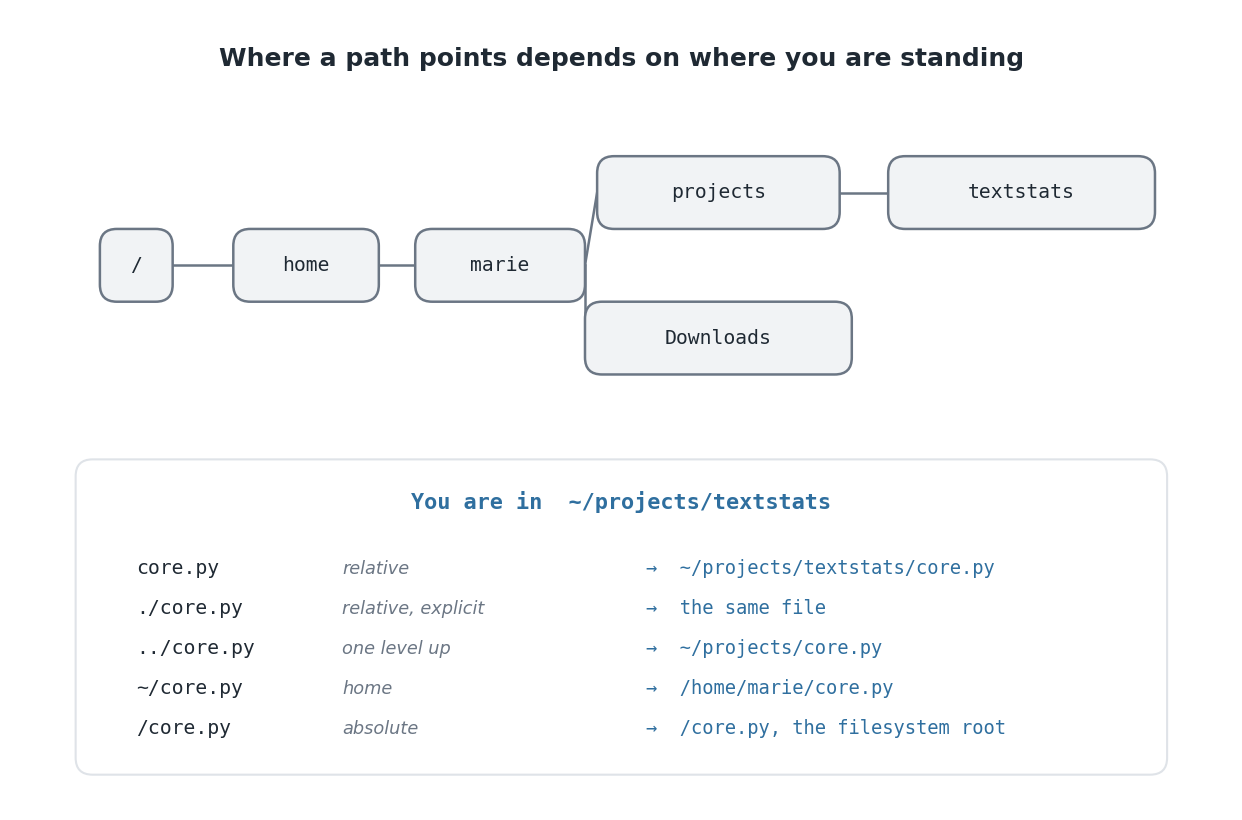
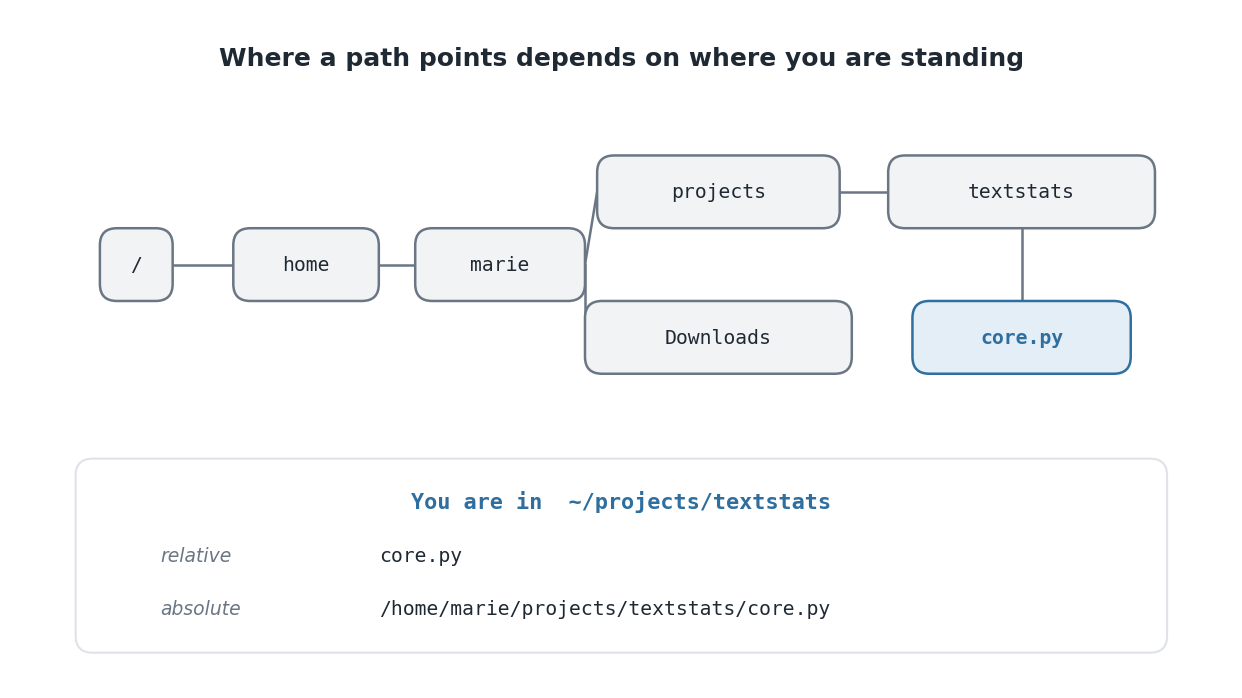
Put core.py in the paths tree, and cut the path table to two rows
The tree was right but abstract: it drew directories and then talked about a
file that was not in it. core.py now sits under textstats, in accent blue so it
reads as a file rather than one more directory, joined by the one vertical edge
in the figure.

The table under it listed five ways to write a path — ./ and ../ and ~/ and the
filesystem root — which is a reference table, not a slide. It is cut to the two
that carry the idea: the relative path you type when you are standing next to
the file, and the absolute path that works from anywhere. The rest is in the
lesson body, where a reader can go at their own pace.

Also carries two trims made on the website and pulled back first (the publish
guard refused until they were): the torch/Colab aside in accounts-and-tools, and
half a sentence in the-shell.

Claude-Session: https://claude.ai/code/session_01Sj8aQTM6V9whNfQfvzhm8J

diff --git a/courseware/tools/figures/s1_git_and_packaging.py b/courseware/tools/figures/s1_git_and_packaging.py
@@ -317,33 +317,44 @@ def the_shell() -> None:
         "projects": (58, 50),
         "Downloads": (58, 38),
         "textstats": (83, 50),
+        # The file the two paths below name. Drawn under textstats rather than
+        # to its right, where there is no room left on a 0..100 canvas.
+        "core.py": (83, 38),
     }
     for name, (x, y) in nodes.items():
         w = 4.0 + 2.0 * len(name)
-        box(ax, x - w / 2, y - 3.0, w, 6.0, fc=GREY_BG, ec=MUTED, lw=1.2)
-        label(ax, x, y, name, fs=9.5, mono=True)
+        is_file = name == "core.py"
+        box(ax, x - w / 2, y - 3.0, w, 6.0,
+            fc=ACCENT_BG if is_file else GREY_BG,
+            ec=ACCENT if is_file else MUTED, lw=1.2)
+        label(ax, x, y, name, fs=9.5, mono=True,
+              color=ACCENT if is_file else INK,
+              weight="bold" if is_file else "normal")
     edges = [("/", "home"), ("home", "marie"), ("marie", "projects"),
              ("marie", "Downloads"), ("projects", "textstats")]
     for a, b in edges:
         ax.plot([nodes[a][0] + 2 + len(a), nodes[b][0] - 2 - len(b)],
                 [nodes[a][1], nodes[b][1]], color=MUTED, lw=1.2, zorder=1)
+    # textstats -> core.py is the one vertical edge; the formula above assumes
+    # the child sits to the right of its parent and would draw it backwards.
+    ax.plot([nodes["textstats"][0]] * 2,
+            [nodes["textstats"][1] - 3.0, nodes["core.py"][1] + 3.0],
+            color=MUTED, lw=1.2, zorder=1)
 
-    box(ax, 5, 2, 90, 26, fc=PAPER, ec=RULE, lw=1.0)
+    box(ax, 5, 12, 90, 16, fc=PAPER, ec=RULE, lw=1.0)
     label(ax, 50, 24.5, "You are in  ~/projects/textstats", fs=10.5,
           weight="bold", mono=True, color=ACCENT)
+    # Two ways to name the same file, and the only two worth the slide: what you
+    # type when you are standing next to it, and what always works.
     rows = [
-        ("core.py", "relative", "→  ~/projects/textstats/core.py"),
-        ("./core.py", "relative, explicit", "→  the same file"),
-        ("../core.py", "one level up", "→  ~/projects/core.py"),
-        ("~/core.py", "home", "→  /home/marie/core.py"),
-        ("/core.py", "absolute", "→  /core.py, the filesystem root"),
+        ("relative", "core.py"),
+        ("absolute", "/home/marie/projects/textstats/core.py"),
     ]
-    y = 19.0
-    for path, kind, resolves in rows:
-        label(ax, 10, y, path, fs=9.5, mono=True, ha="left", color=INK)
-        label(ax, 27, y, kind, fs=8.5, color=MUTED, ha="left", style="italic")
-        label(ax, 52, y, resolves, fs=9, mono=True, ha="left", color=ACCENT)
-        y -= 3.3
+    y = 20.0
+    for kind, path in rows:
+        label(ax, 12, y, kind, fs=9, color=MUTED, ha="left", style="italic")
+        label(ax, 30, y, path, fs=9.5, mono=True, ha="left", color=INK)
+        y -= 4.4
     label(ax, 50, 61, "Where a path points depends on where you are standing",
           fs=12, weight="bold")
     save(fig, lesson, "paths.png")

diff --git a/courseware/content/python-ai-engineering/s1-git-and-packaging/accounts-and-tools.md b/courseware/content/python-ai-engineering/s1-git-and-packaging/accounts-and-tools.md
@@ -166,9 +166,6 @@ import sys, torch
 print(sys.version, torch.__version__)
 ```
 
-`torch` is already installed there. That is the entire reason Sessions 3 and 4
-use Colab, and *Notebooks & Colab* covers the consequences.
-
 ---
 
 ## Three machines, one repository

diff --git a/courseware/content/python-ai-engineering/s1-git-and-packaging/the-shell.md b/courseware/content/python-ai-engineering/s1-git-and-packaging/the-shell.md
@@ -11,8 +11,7 @@ machine.
 uv run pytest -q tests/
 ```
 
-One command (`uv`), three arguments. The shell does not know what any of them
-mean.
+One command (`uv`), three arguments.
 
 ---
 
